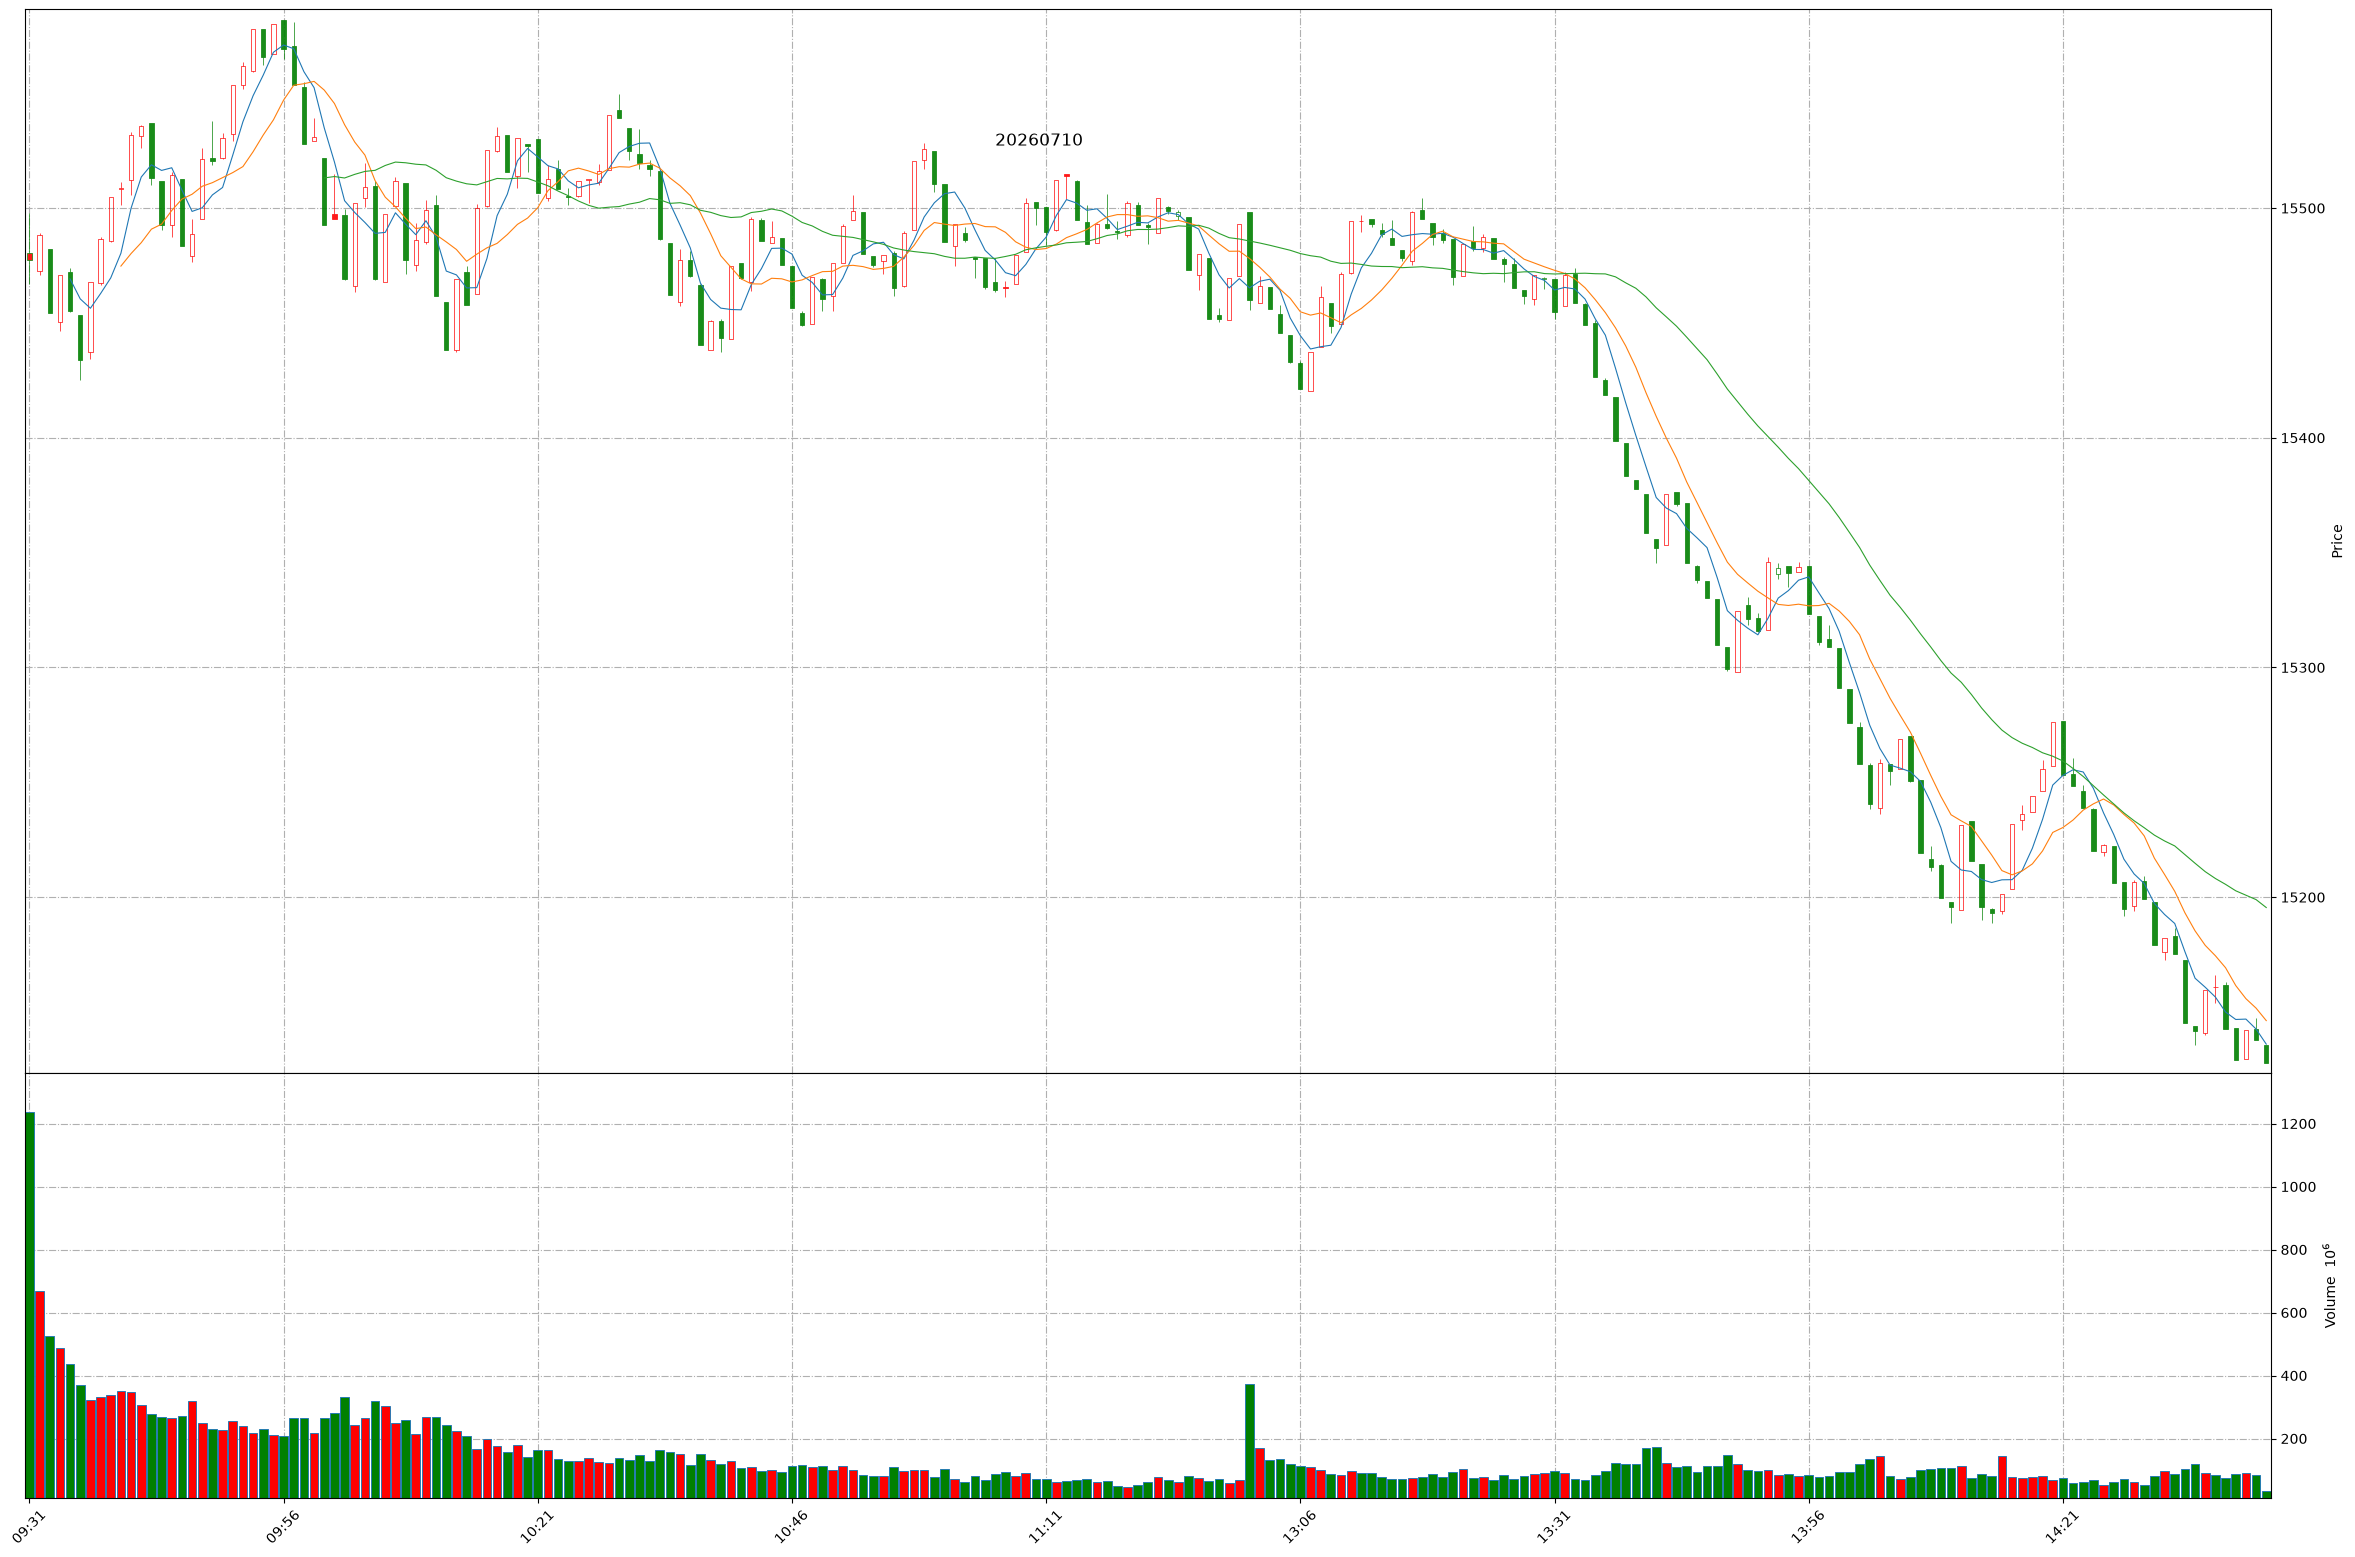
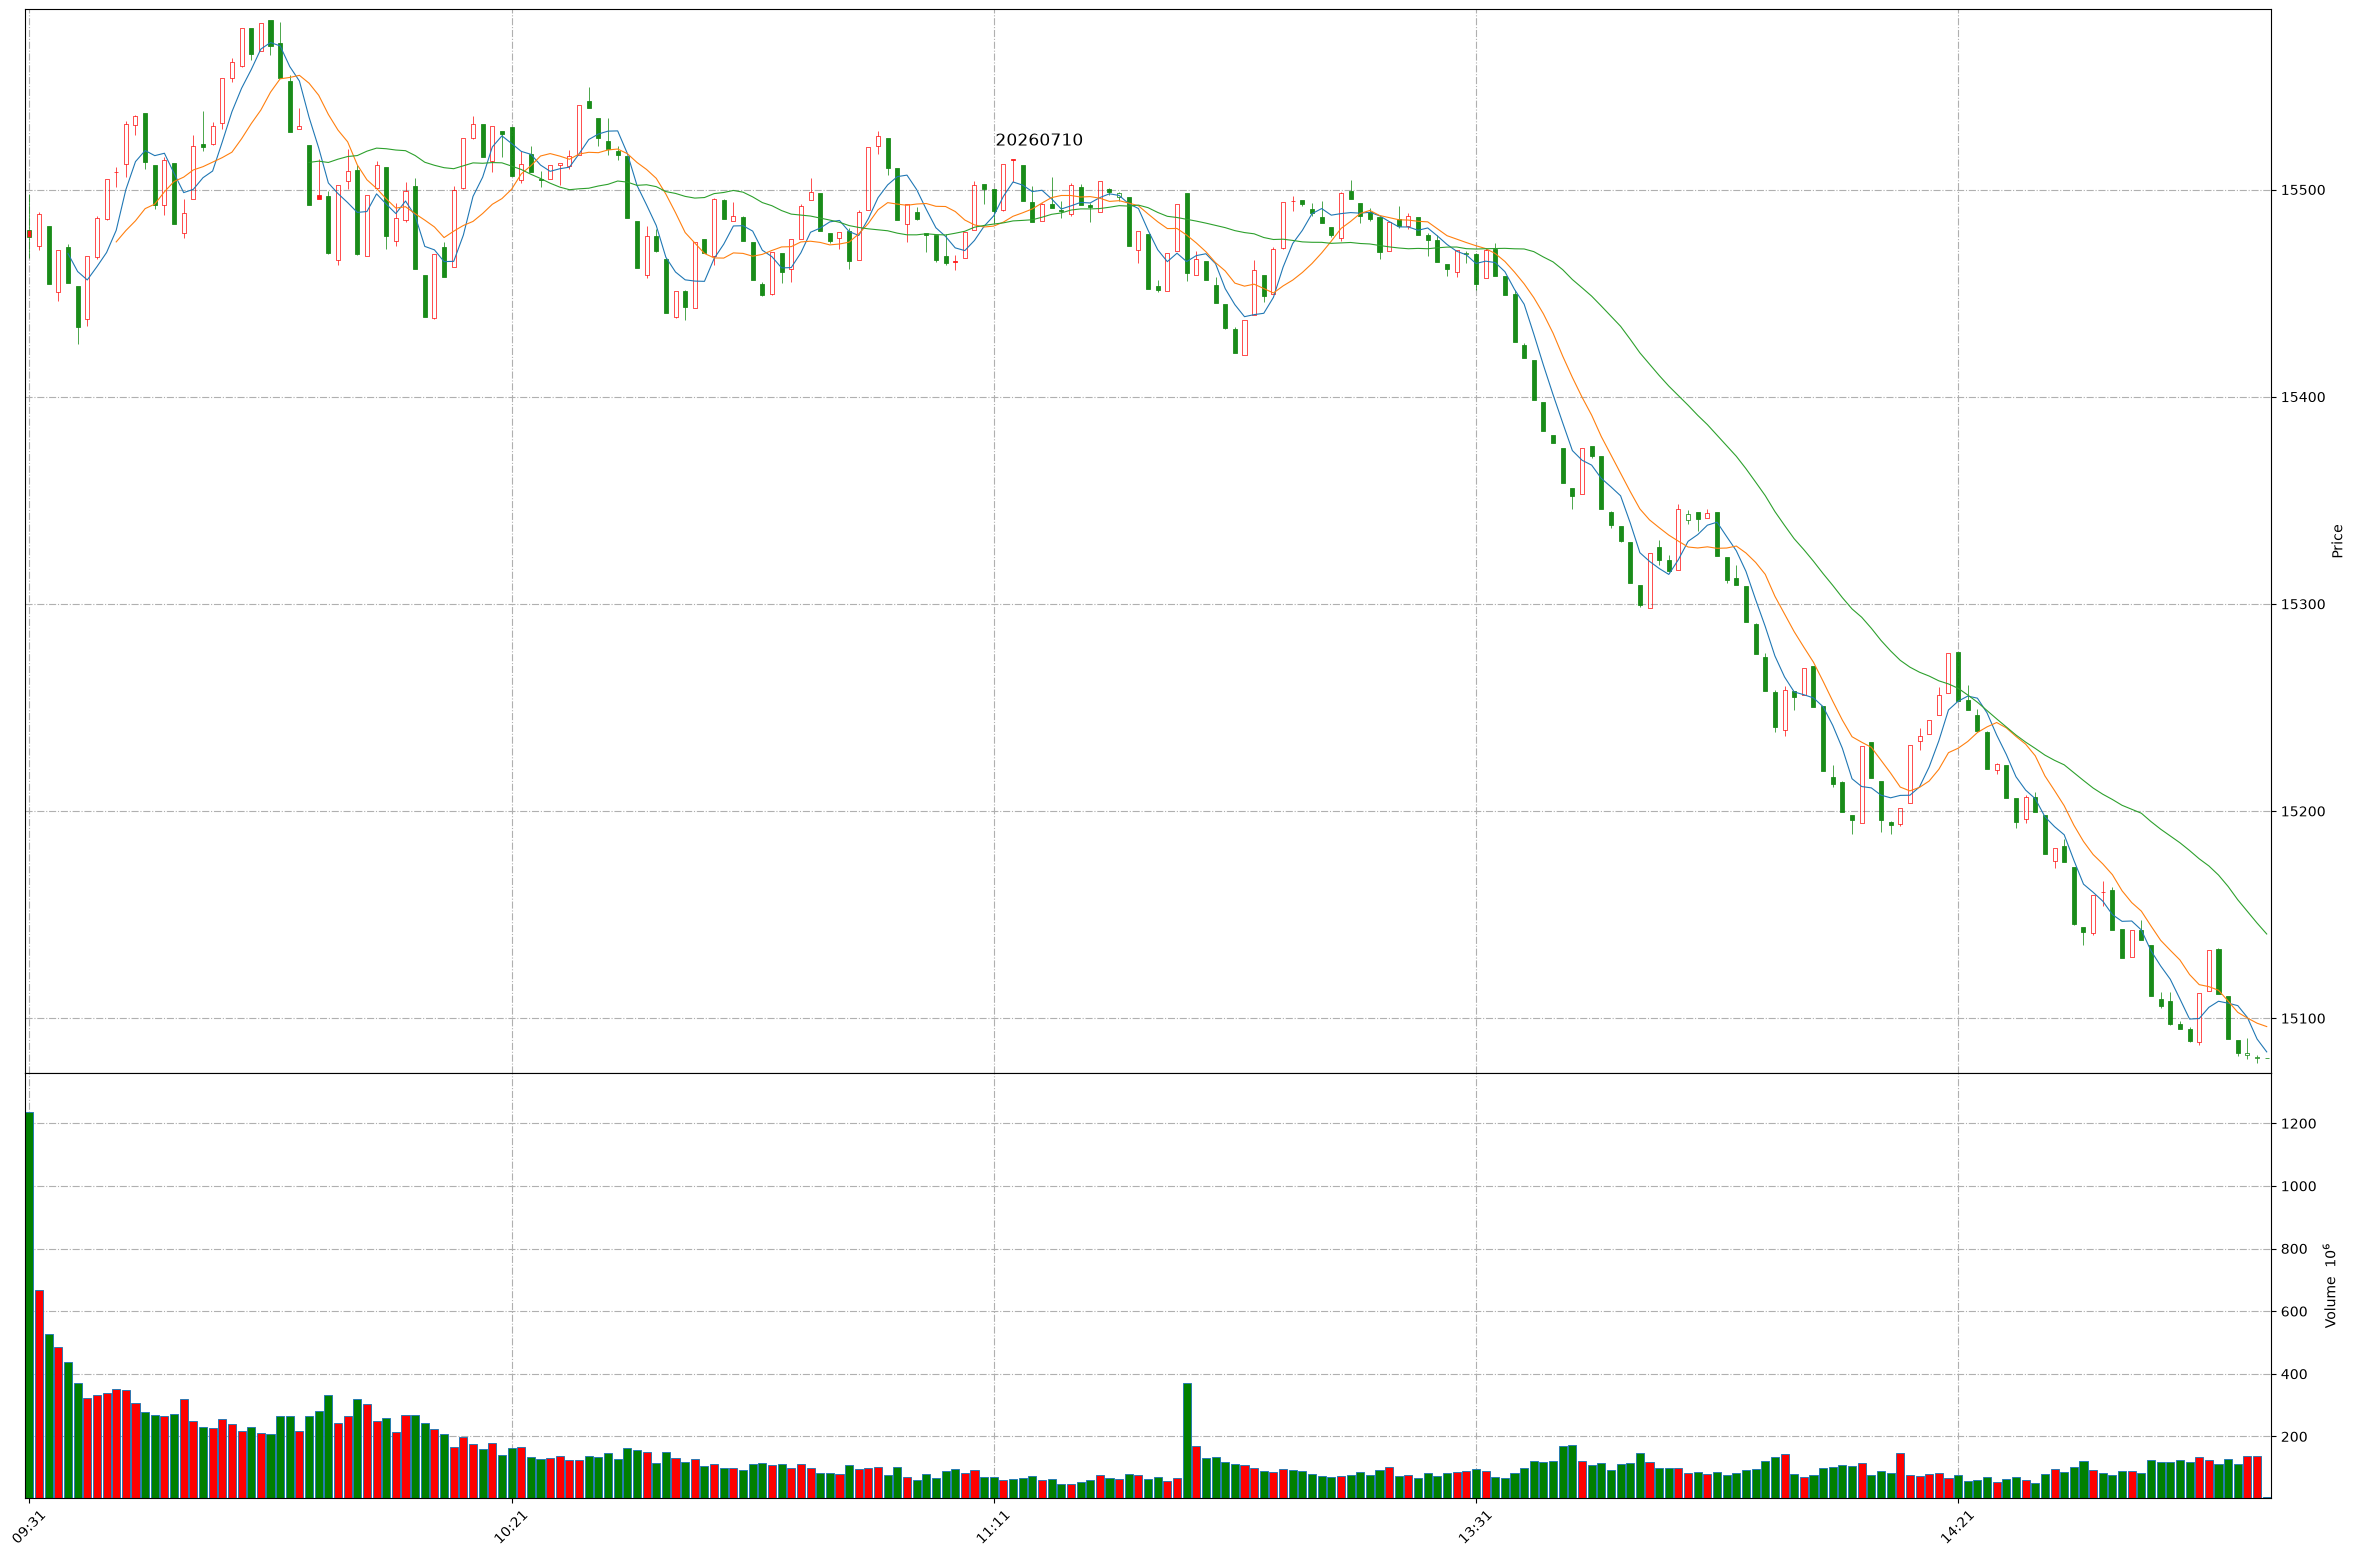
Github action update at 2026-07-10 14:52:16.

Changed region(s): [[0.0, 0.0, 0.9609, 0.6782], [0.0, 0.8632, 0.9609, 0.9865]]

diff --git a/README.md b/README.md
@@ -1,11 +1,11 @@
 
 # Daily-A-share-market-quotes 每日 A 股指数（5min 更新）- 20260710
 
-### 上证指数 20260710 14:40
+### 上证指数 20260710 14:52
 ![](./fig/2026/7/20260710-sh000001.png)
 
-### 深证成指 20260710 14:40
+### 深证成指 20260710 14:52
 ![](./fig/2026/7/20260710-sz399001.png)
 
-### 北证50 20260710 14:40
+### 北证50 20260710 14:52
 ![](./fig/2026/7/20260710-bj899050.png)
